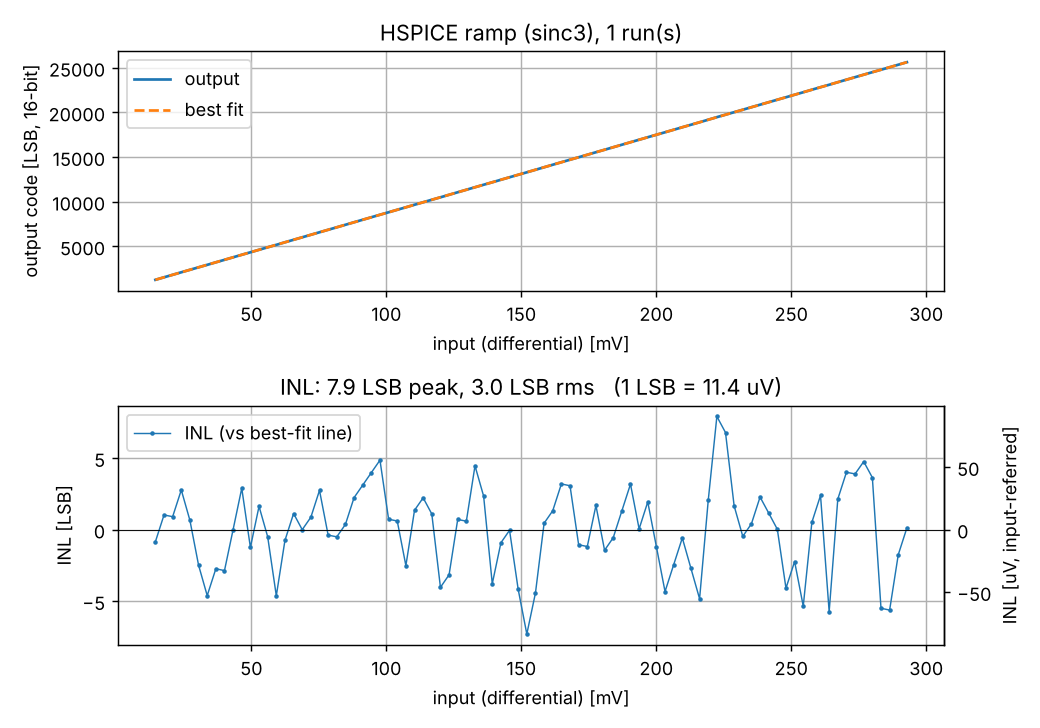
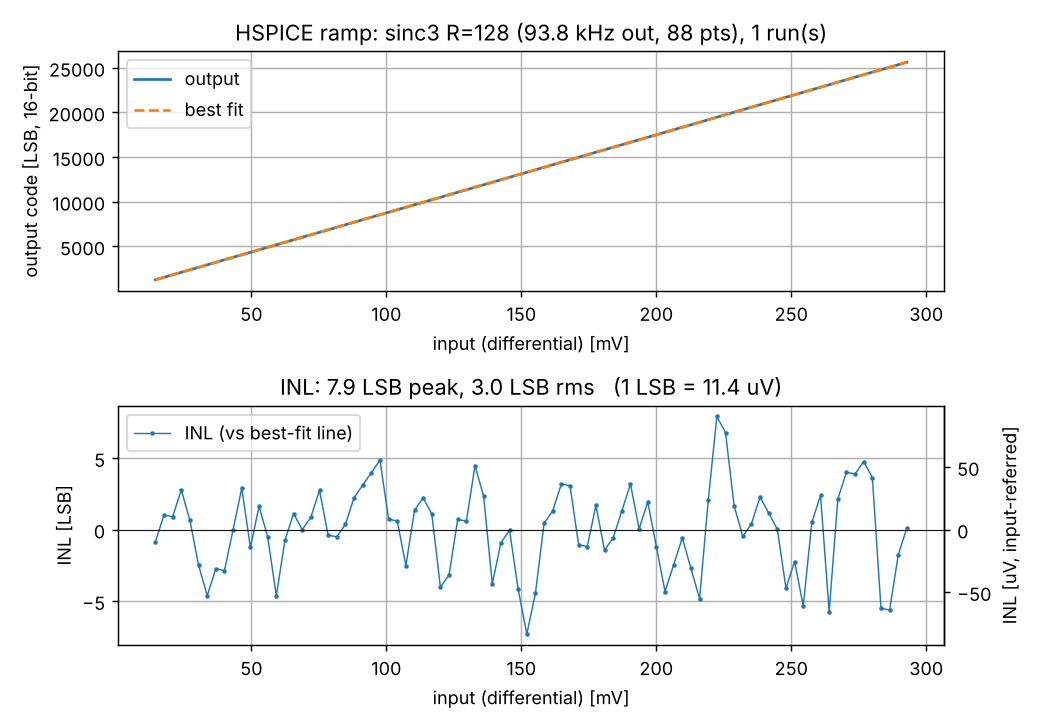
dsm_ramp.py: show decimation ratio R, output rate and point count in plot title
Claude-Session: https://claude.ai/code/session_011hwUF5XBXp2rFiRaB9NUTs

Changed region(s): [[0.2154, 0.0302, 0.8, 0.0604]]

diff --git a/dsm_ramp.py b/dsm_ramp.py
@@ -288,7 +288,7 @@ def run_hspice_files(a):
     y = np.mean([r[1] for r in runs], axis=0)
     if len(runs) > 1:
         print(f"averaged {len(runs)} runs")
-    return analyze(u, y, vfs=a.vfsd, dnl=False, fig_title=f"HSPICE ramp (sinc3), {len(runs)} run(s)")
+    return analyze(u, y, vfs=a.vfsd, dnl=False, fig_title=f"HSPICE ramp: sinc3 R={a.r} ({a.fs / a.r / 1e3:.1f} kHz out, {u.size} pts), {len(runs)} run(s)")
 
 
 def run_dc(a):
